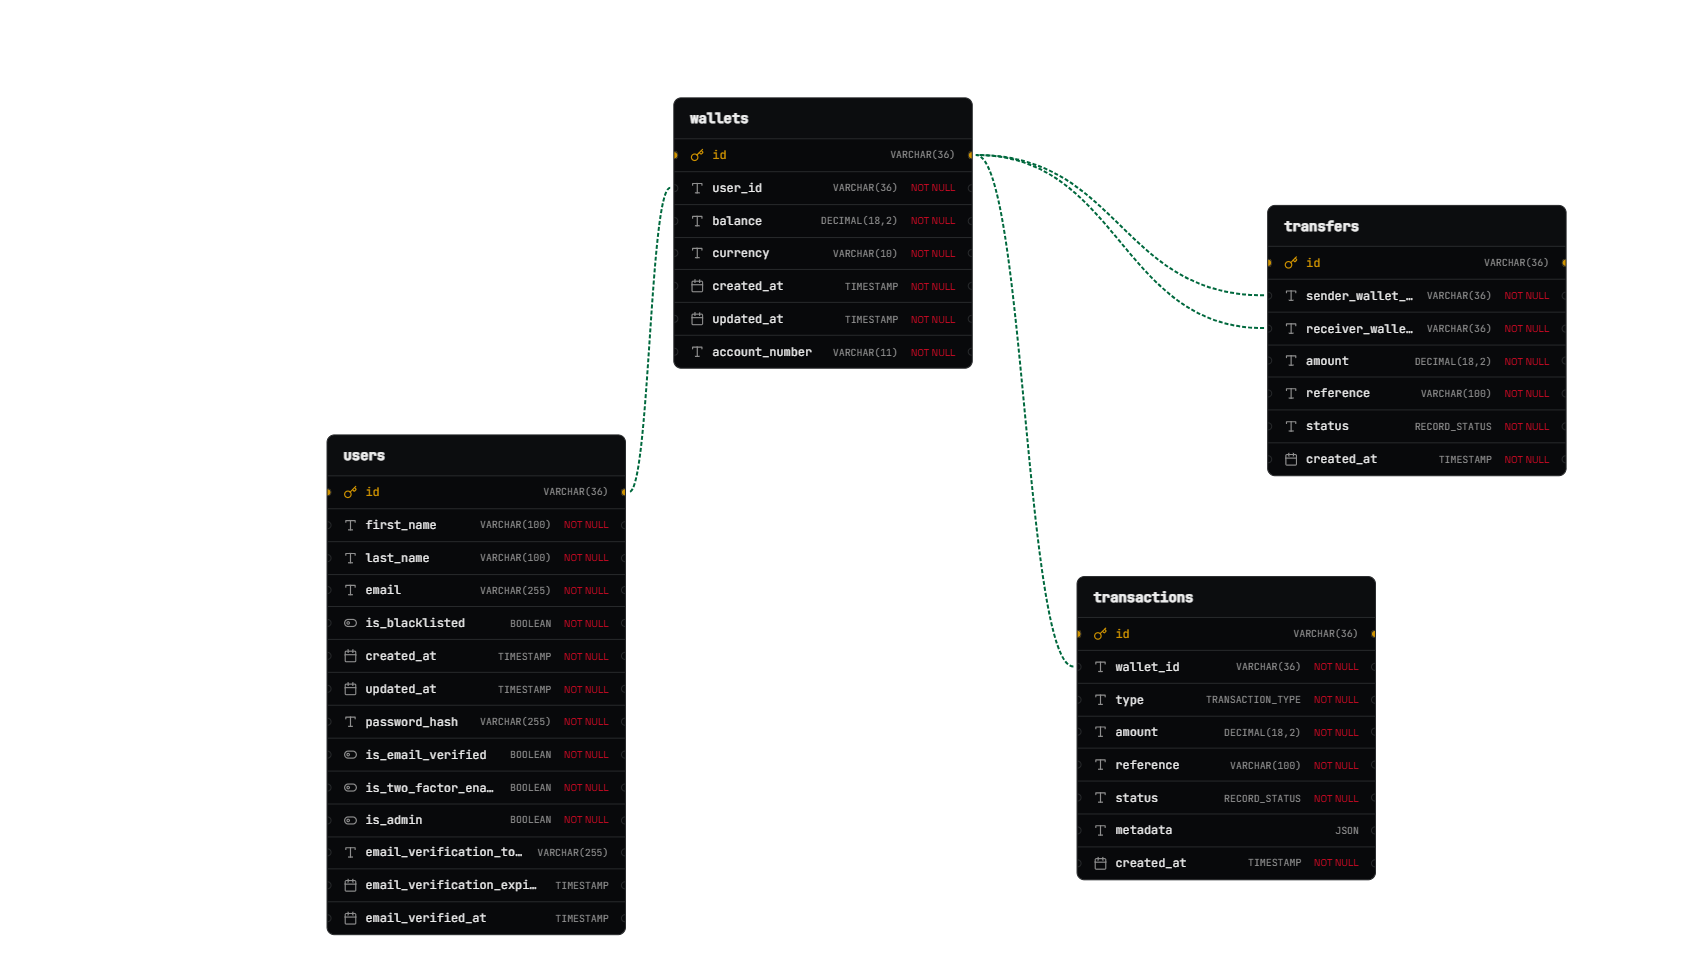
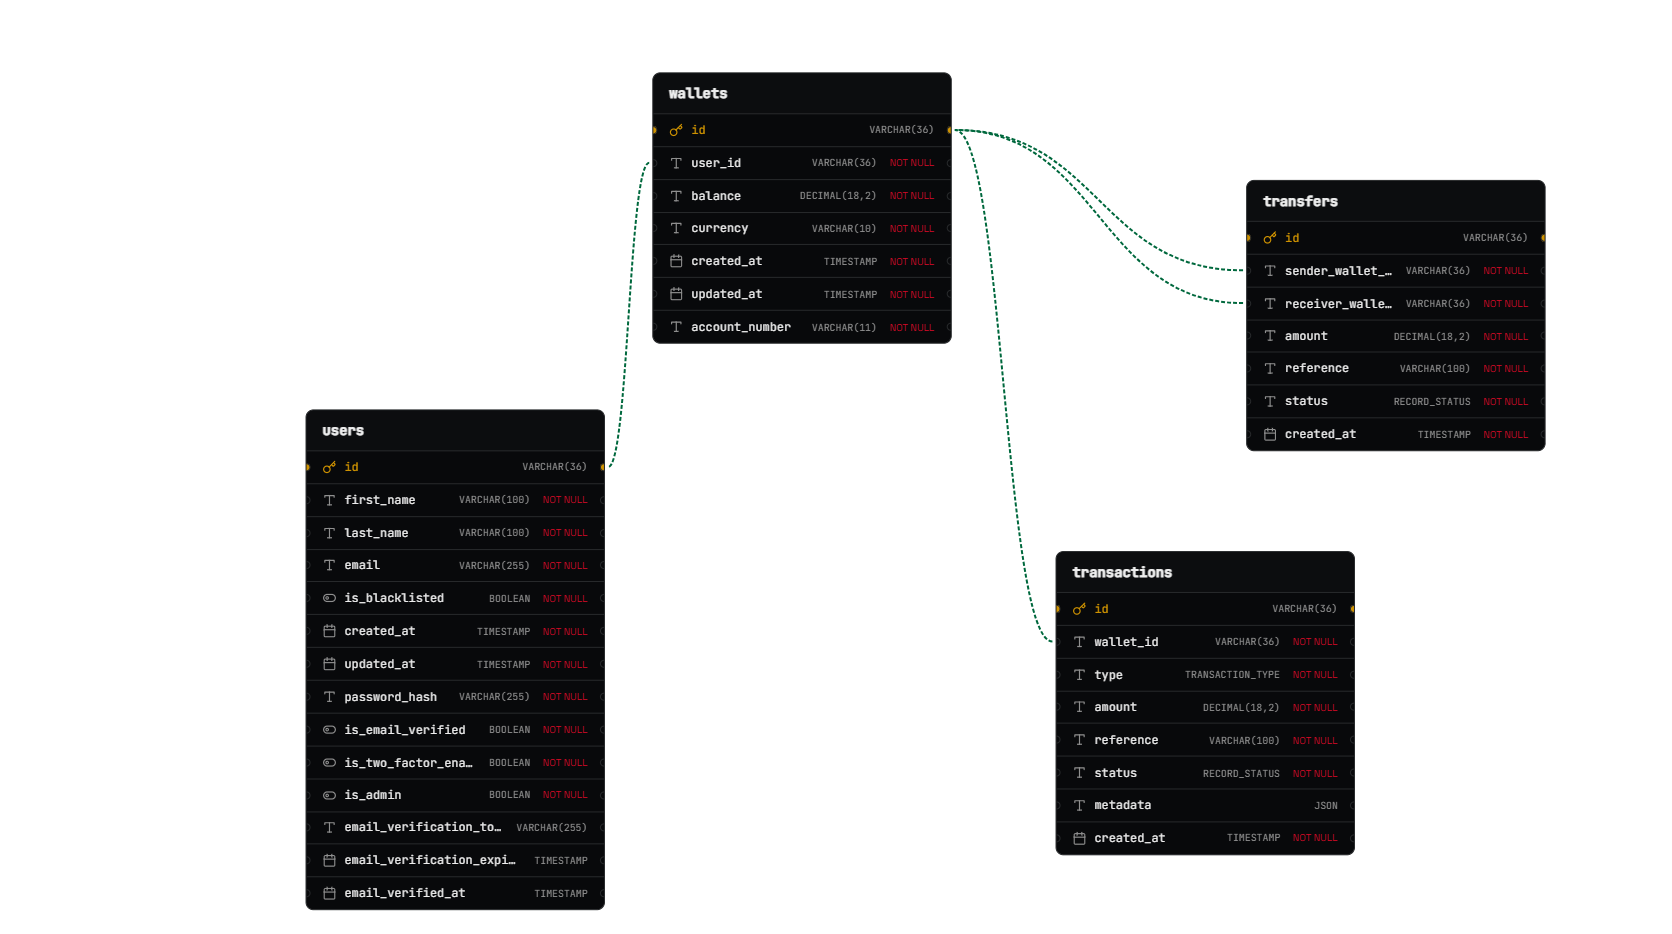
fix(health): add database query to keep Aiven MySQL connection alive
- Query users table on health endpoint to prevent database sleep
- Add database status field to health response
- Return 503 when database check fails
- Update ERD screenshots in documentation

diff --git a/src/routes/health.route.ts b/src/routes/health.route.ts
@@ -1,13 +1,26 @@
 import { Router } from "express";
+import { db } from "../db/knex";
 
 const router = Router();
 
-router.get("/", (req, res) => {
-  res.status(200).json({
-    status: "ok",
-    message: "Wallet service is running",
-    timestamp: new Date().toISOString()
-  });
+router.get("/", async (req, res) => {
+  try {
+    await db("users").select("id").limit(1);
+
+    res.status(200).json({
+      status: "ok",
+      database: "ok",
+      message: "Wallet service is running",
+      timestamp: new Date().toISOString()
+    });
+  } catch (error) {
+    res.status(503).json({
+      status: "error",
+      database: "unavailable",
+      message: "Wallet service database check failed",
+      timestamp: new Date().toISOString()
+    });
+  }
 });
 
 export default router;

diff --git a/readme.md b/readme.md
@@ -33,7 +33,7 @@ The wallet operations are implemented with database transactions and row-level w
 
 ## ERD
 
-![Database ERD](database-erd/database-erd.png)
+![Database ERD](database-erd/database-erd-screenshot.png)
 
 The DBML source is available at [src/db/db.dbml](src/db/db.dbml).
 

diff --git a/project-docs.md b/project-docs.md
@@ -187,7 +187,7 @@ Important columns:
 
 ## ERD
 
-![Database ERD](database-erd/database-erd.png)
+![Database ERD](database-erd/database-erd-screenshot.png)
 
 The DBML source is stored in:
 
